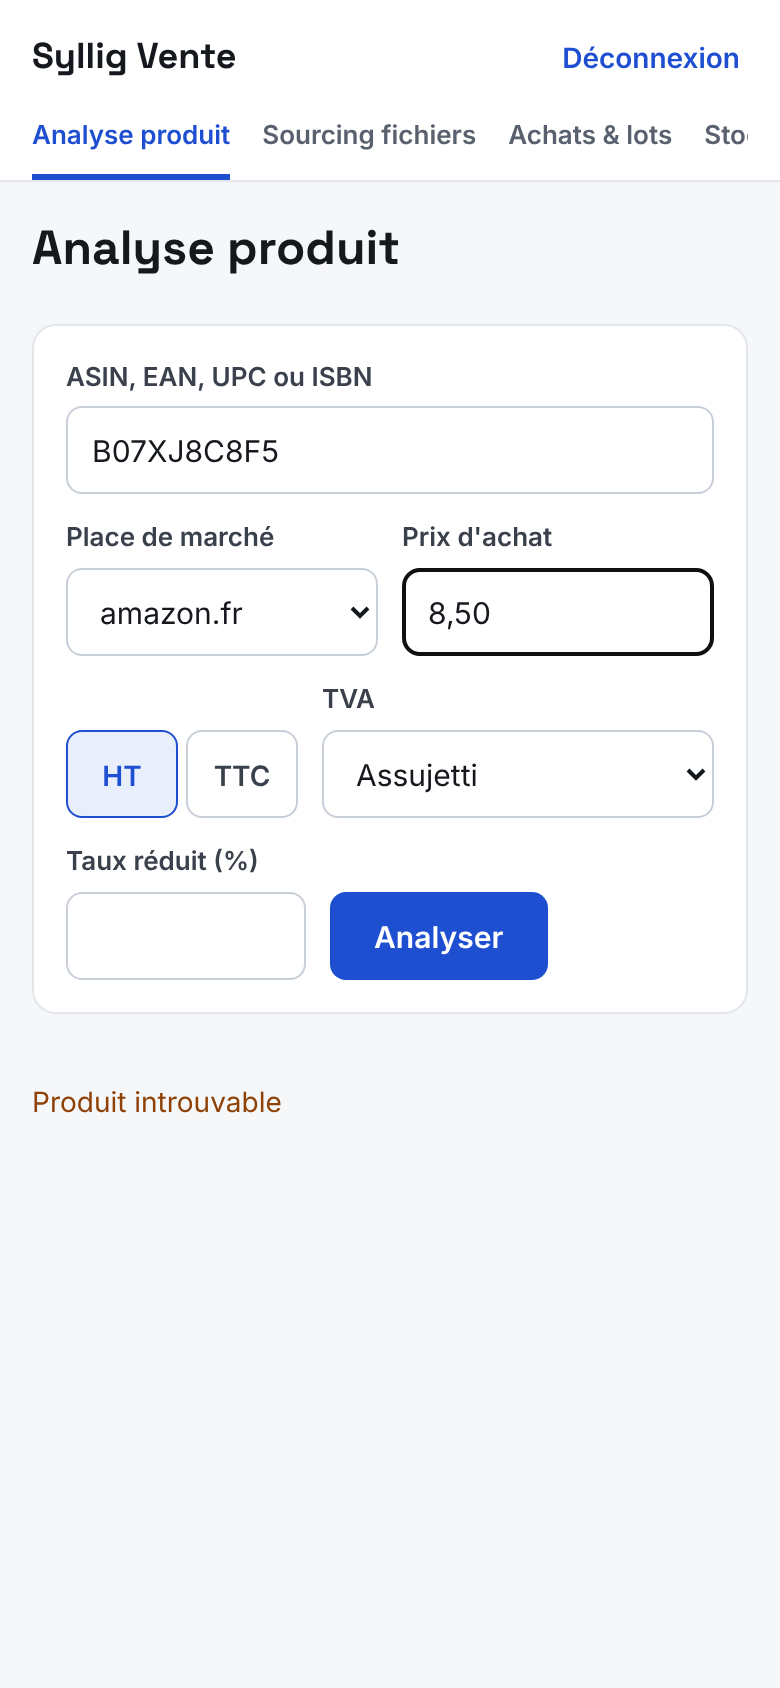
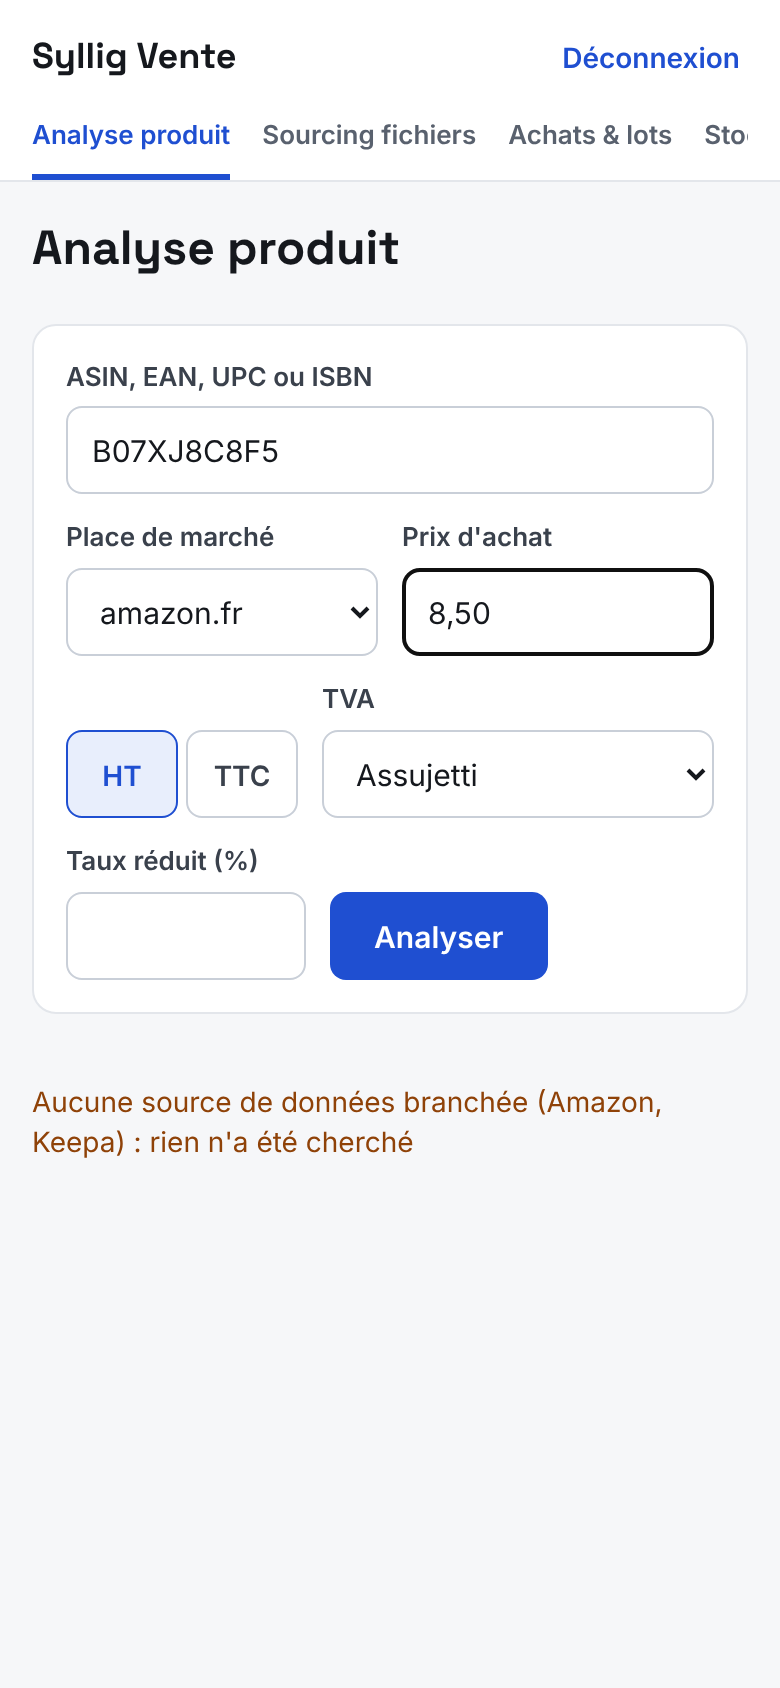
Vrai site sans source branchée : « aucune source », jamais « introuvable » (RM-AMZ-071) ; captures 1.0 du mode production
Claude-Session: https://claude.ai/code/session_01Kj4MXACepUdsNkDEtnvcCa

Changed region(s): [[0.0308, 0.6469, 0.6769, 0.7085], [0.7077, 0.6469, 0.8308, 0.6777]]

diff --git a/backend/tests/test_exploitation.py b/backend/tests/test_exploitation.py
@@ -58,6 +58,21 @@ class TestExploitation(unittest.TestCase):
             with psycopg.connect(PG + " dbname=postgres", autocommit=True) as adm:
                 adm.execute(f"DROP DATABASE IF EXISTS {nom} WITH (FORCE)")
 
+    def test_sans_source_branchee(self):
+        """[RM-AMZ-071] Sans SP-API ni Keepa : « aucune source », jamais « introuvable »."""
+        from fastapi.testclient import TestClient
+
+        from sourcing.analyse import Fournisseurs
+        from sourcing.api import creer_app
+        from sourcing.demo_donnees import construire
+        d, c = construire()
+        cl = TestClient(creer_app(d, c, servir_interface=False, fournisseurs=Fournisseurs()))
+        r = cl.post("/api/analyse", json={"code": "B07XJ8C8F5", "marketplace": "FR", "prix_achat": 8.5})
+        self.assertEqual((r.status_code, r.json()["detail"]), (503, "SOURCE_NON_CONFIGUREE"))
+        r = cl.post("/api/sourcing/fichiers/inconnu/traitements", json={"colonnes": {}, "marketplace": "FR",
+                    "regime_tva": "assujetti", "achat_ttc": False, "prix_par_carton": False})
+        self.assertEqual((r.status_code, r.json()["detail"]), (503, "SOURCE_NON_CONFIGUREE"))
+
 
 if __name__ == "__main__":
     unittest.main()

diff --git a/backend/sourcing/api.py b/backend/sourcing/api.py
@@ -608,6 +608,8 @@ def creer_app(depot, compte_demo: Optional[str] = None, servir_interface: bool =
         regime = d.regime_tva or p.regime(mp.code)
         if regime not in REGIMES_TVA:
             raise HTTPException(422, "REGIME_TVA_INCONNU")
+        if not fournisseurs.catalogue:  # [RM-AMZ-071]
+            raise HTTPException(503, "SOURCE_NON_CONFIGUREE")
         try:
             asins = resoudre_asins(mp, d.code, fournisseurs)
         except ErreurFournisseur:
@@ -663,6 +665,8 @@ def creer_app(depot, compte_demo: Optional[str] = None, servir_interface: bool =
 
     @app.post("/api/sourcing/fichiers/{fid}/traitements", status_code=201)
     def lancer_traitement(fid: str, d: DemandeTraitement, c: str = Depends(compte)):
+        if not fournisseurs.catalogue:  # [RM-AMZ-071]
+            raise HTTPException(503, "SOURCE_NON_CONFIGUREE")
         f = fichiers.get(fid)
         if f is None or f[0] != c:
             raise HTTPException(404, "FICHIER_EXPIRE")

diff --git a/docs/regles/registre.md b/docs/regles/registre.md
@@ -158,4 +158,4 @@ Toutes les alertes sont des **avertissements**, jamais un blocage.
 
 | N° | Règle | Source | Statut | Blocage | Test | État |
 |---|---|---|---|---|---|---|
-| RM-AMZ-071 | **Aucune source branchée** (ni SP-API ni Keepa) : l'analyse d'un produit et le traitement d'un fichier fournisseur répondent `SOURCE_NON_CONFIGUREE`, jamais « produit introuvable » (on ne conclut rien sans avoir cherché). | Règle de Sam : ne jamais présenter une donnée non vérifiée | métier | bloquant | `test_sans_source_branchee` | à coder |
+| RM-AMZ-071 | **Aucune source branchée** (ni SP-API ni Keepa) : l'analyse d'un produit et le traitement d'un fichier fournisseur répondent `SOURCE_NON_CONFIGUREE`, jamais « produit introuvable » (on ne conclut rien sans avoir cherché). | Règle de Sam : ne jamais présenter une donnée non vérifiée | métier | bloquant | `test_sans_source_branchee` | codé |

diff --git a/docs/captures/1.0/LISEZ-MOI.md b/docs/captures/1.0/LISEZ-MOI.md
@@ -1,0 +1,12 @@
+# Captures 1.0 — le vrai site, mode production (12/11/2026)
+
+Lancé ici en mode `prod` : base Postgres réelle (migrations 0001 à 0010), connexion obligatoire, **aucune donnée fictive**,
+**aucune source branchée** (ni Amazon SP-API ni Keepa : compte vendeur en vérification). Compte de test local.
+
+| Fichier | Ce qu'on voit |
+|---|---|
+| `01-connexion-*` | Page de connexion (bureau et téléphone) |
+| `02-analyse-*` | Analyse d'un vrai ASIN : « Aucune source de données branchée : rien n'a été cherché » (RM-AMZ-071, corrigé grâce à cette capture : le site disait « produit introuvable ») |
+| `03` à `09` | Sourcing, Achats & lots, Stock, Fournisseurs, Remboursements, Conformité, Paramètres : écrans vides, prêts à recevoir vos données |
+
+Pages sans débordement (1600 px et 390 px mesurés).
